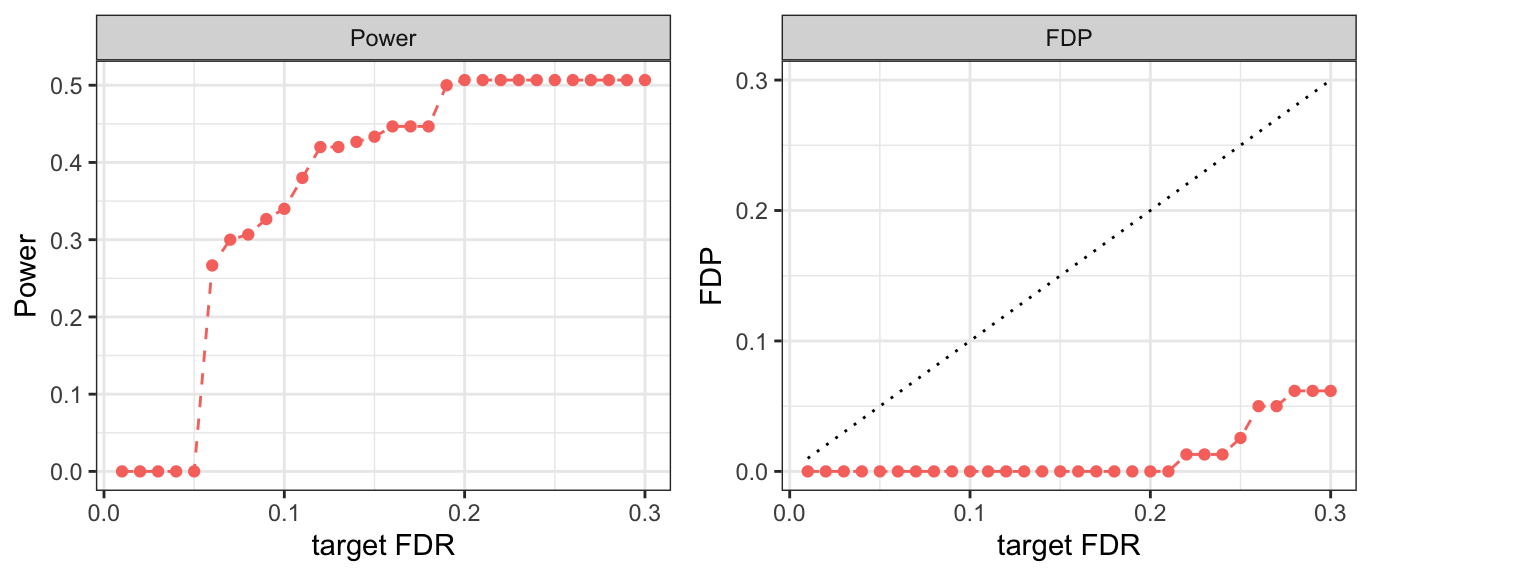
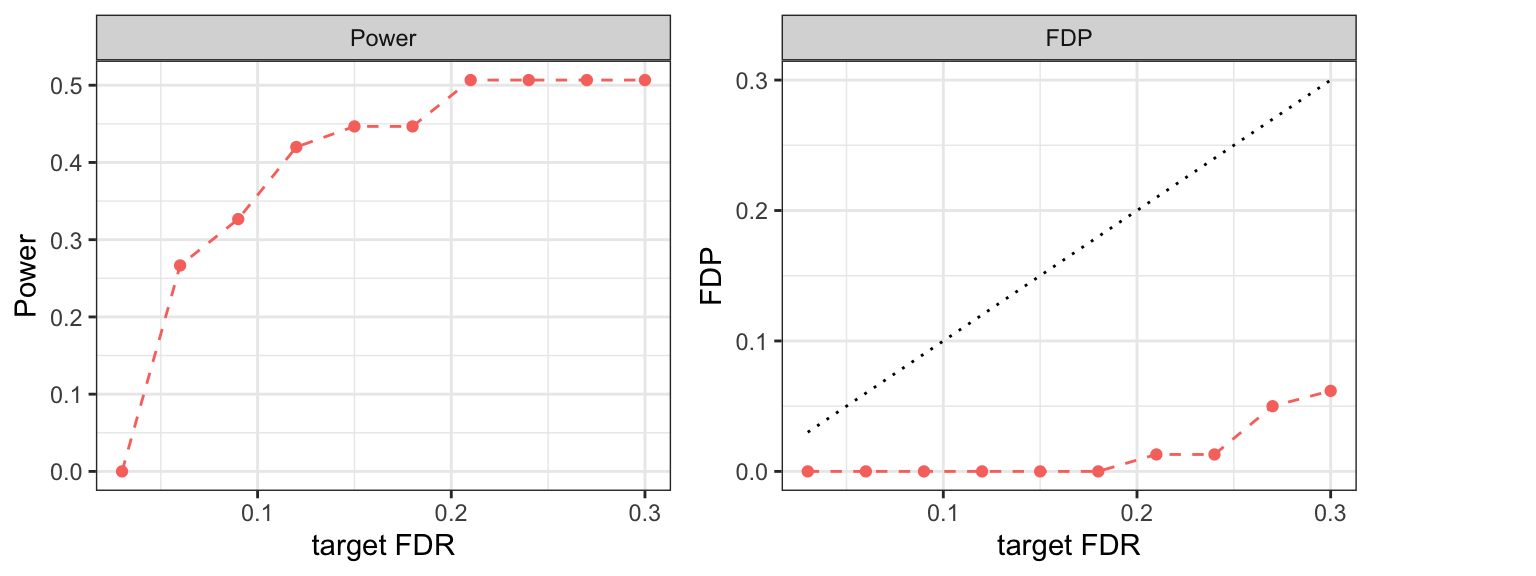
update website

diff --git a/docs/tutorial1.html b/docs/tutorial1.html
@@ -365,8 +365,8 @@ div.tocify {
 
 
 <p>This notebook introduces how to use the <code>adaptiveKnockoff</code> R package. In this preliminary tutorial, we will focus on introducing how to use the adaptive knockoff wrapper with the default settings. We will generate synthetic data and construct knockoffs and feature importance statistics via the <code>knockoff</code> package. Then we show how to call the adaptive knockoff function and obtain results.</p>
-<div id="load-necessary-libraries" class="section level2">
-<h2>Load necessary libraries</h2>
+<div id="load-necessary-libraries" class="section level3">
+<h3>Load necessary libraries</h3>
 <p>We need the following packages for later implementation:</p>
 <pre class="r"><code>library(&quot;knockoff&quot;)
 library(&quot;gam&quot;)
@@ -375,8 +375,8 @@ library(&quot;ggplot2&quot;)
 library(&quot;cowplot&quot;)
 library(&quot;adaptiveKnockoff&quot;)</code></pre>
 </div>
-<div id="generate-data" class="section level2">
-<h2>Generate data</h2>
+<div id="generate-data" class="section level3">
+<h3>Generate data</h3>
 <p>The covariate matrix <span class="math inline">\(X\)</span> is generated from a multivariate Gaussian distribution and the response <span class="math inline">\(y\)</span> is generated from a linear model conditional on <span class="math inline">\(X\)</span>.</p>
 <pre class="r"><code># Parameters
 set.seed(2019)
@@ -398,18 +398,24 @@ y.sample = function(X) X%*%beta0+rnorm(n,0,1)
 y = y.sample(X)</code></pre>
 <p>The features live on a real line and are indexed from 1 to p according to their location. Specially, the nonzero ones are all clusted at end, shown as the below figure: <img src="tutorial1_files/figure-html/fig1-1.png" width="960" style="display: block; margin: auto;" /></p>
 <p>Consider a series of target FDR levels <span class="math inline">\(\{0.01,\ldots,0.3\}\)</span>:</p>
-<pre class="r"><code>alphalist = seq(0.3,0.01,-0.01)</code></pre>
+<pre class="r"><code>alphalist = seq(0.3,0.03,-0.03)</code></pre>
 <p>Set the side information <span class="math inline">\(U_j\)</span> to be the index of feature <span class="math inline">\(j\)</span>:</p>
 <pre class="r"><code>U=1:p</code></pre>
+</div>
+<div id="generate-knockoffs" class="section level3">
+<h3>Generate knockoffs</h3>
 <p>We use the <code>knockoff</code> package to generate knockoff copy <span class="math inline">\(\tilde{X}\)</span> and calculate the feature importance statistics <span class="math inline">\(W\)</span>:</p>
 <pre class="r"><code>Xk = create.gaussian(X,mu,Sigma)#generate knockoff Xk
 W = stat.glmnet_coefdiff(X,Xk,y)#calculate feature importance statistics (LCD)</code></pre>
+</div>
+<div id="adaptive-knockoffs" class="section level3">
+<h3>Adaptive knockoffs</h3>
 <p>Call adaptive knockoff function:</p>
 <pre class="r"><code>res = adaptiveKnockoff::adaptive_knockoff(W,U,fdr = alphalist)</code></pre>
 <p>Calculate the resulting power and FDP:</p>
 <pre class="r"><code>fdp = c()
 power = c()
-for (i in 1:length(alphalist )){
+for (i in 1:length(alphalist)){
   if(res$nrejs[[i]]&gt;0){
     rej  = res$rejs[[i]]
     fdp = c(fdp,sum(beta0[rej]==0)/max(length(rej),1))
@@ -421,55 +427,15 @@ for (i in 1:length(alphalist )){
   }
 }</code></pre>
 <p>The resulting power for different FDR target levels (in a decreasing order):</p>
-<pre><code>##  [1] 0.5066667 0.5066667 0.5066667 0.5066667 0.5066667 0.5066667 0.5066667
-##  [8] 0.5066667 0.5066667 0.5066667 0.5066667 0.5000000 0.4466667 0.4466667
-## [15] 0.4466667 0.4333333 0.4266667 0.4200000 0.4200000 0.3800000 0.3400000
-## [22] 0.3266667 0.3066667 0.3000000 0.2666667 0.0000000 0.0000000 0.0000000
-## [29] 0.0000000 0.0000000</code></pre>
+<pre><code>##  [1] 0.5066667 0.5066667 0.5066667 0.5066667 0.4466667 0.4466667 0.4200000
+##  [8] 0.3266667 0.2666667 0.0000000</code></pre>
 <p>The resulting FDP for different FDR target levels (in a decreasing order):</p>
-<pre><code>##  [1] 0.06172840 0.06172840 0.06172840 0.05000000 0.05000000 0.02564103
-##  [7] 0.01298701 0.01298701 0.01298701 0.00000000 0.00000000 0.00000000
-## [13] 0.00000000 0.00000000 0.00000000 0.00000000 0.00000000 0.00000000
-## [19] 0.00000000 0.00000000 0.00000000 0.00000000 0.00000000 0.00000000
-## [25] 0.00000000 0.00000000 0.00000000 0.00000000 0.00000000 0.00000000</code></pre>
-<p>Plot power and FDP versus the target FDR level:</p>
-<pre class="r"><code>df = data.frame(x = seq(0.3,0.01,-0.01),y = power)
-df$title = &quot;Power&quot;
-pp1 = ggplot(df,aes(x =x , y = y,color = &quot;red&quot;)) +
-  geom_line(linetype = &quot;dashed&quot;,size = 0.5) +
-  geom_point(size = 1.5)+
-  scale_shape_manual(values=seq(15,24))+
-  xlab(&quot;target FDR&quot;)+
-  ylab(&quot;Power&quot;)+
-  facet_grid(.~title)+
-  theme(legend.position=&quot;none&quot;)+
-  theme(panel.border = element_rect(size = 3, linetype=&#39;solid&#39;)
-        )+
-  theme_bw()
-
-df = data.frame(x = seq(0.3,0.01,-0.01),y = fdp)
-df$title = &quot;FDP&quot;
-pp2 = ggplot(df,aes(x =x , y = y,color = &quot;red&quot;)) +
-  geom_line(linetype = &quot;dashed&quot;,size = 0.5) +
-  geom_point(size = 1.5)+
-  scale_shape_manual(values=seq(15,24))+
-  xlab(&quot;target FDR&quot;)+
-  ylab(&quot;FDP&quot;)+
-  facet_grid(.~title)+
-  theme(legend.position=&quot;none&quot;)+
-  theme(panel.border = element_rect(size = 3, linetype=&#39;solid&#39;)
-        )+
-  theme_bw()+
-  geom_line(aes(x =seq(0.01,0.3,0.01), y = seq(0.01,0.3,0.01)), color = &quot;black&quot;,linetype = &quot;dotted&quot;)
-  
-prow &lt;- plot_grid( pp1+ theme(legend.position=&quot;none&quot;),
-                   pp2 + theme(legend.position=&quot;none&quot;),
-                   #align = &#39;h&#39;,
-                   #hjust = -1,
-                   nrow = 1
-)
-plot_grid( prow, legend, rel_widths = c(2.5, 0.3),rel_heights = c(1,0.8))</code></pre>
-<p><img src="tutorial1_files/figure-html/fig2-1.png" width="768" style="display: block; margin: auto;" /></p>
+<pre><code>##  [1] 0.06172840 0.05000000 0.01298701 0.01298701 0.00000000 0.00000000
+##  [7] 0.00000000 0.00000000 0.00000000 0.00000000</code></pre>
+</div>
+<div id="visualizing-results" class="section level3">
+<h3>Visualizing results</h3>
+<p>Plot power and FDP versus the target FDR level: <img src="tutorial1_files/figure-html/fig2-1.png" width="768" style="display: block; margin: auto;" /></p>
 <p>We can also plot the realized ordering determined by adaptive knockoff. The plot below contains the last two hundred features in the ordering.</p>
 <pre class="r"><code>pp = adaptiveKnockoff::plot_ordering(res,nonzero,start_index = 701)
 print(pp)</code></pre>
